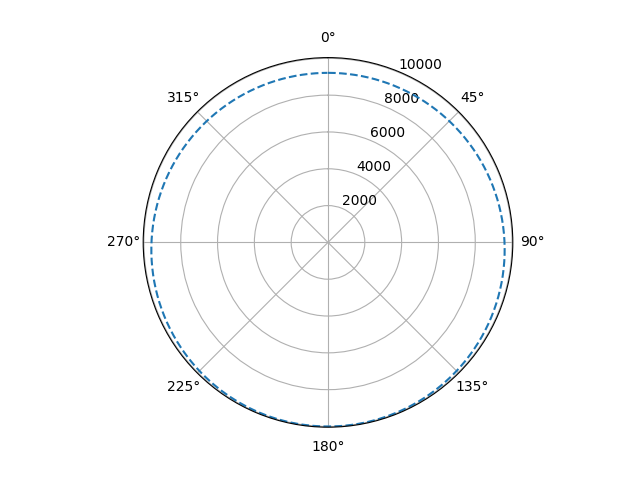
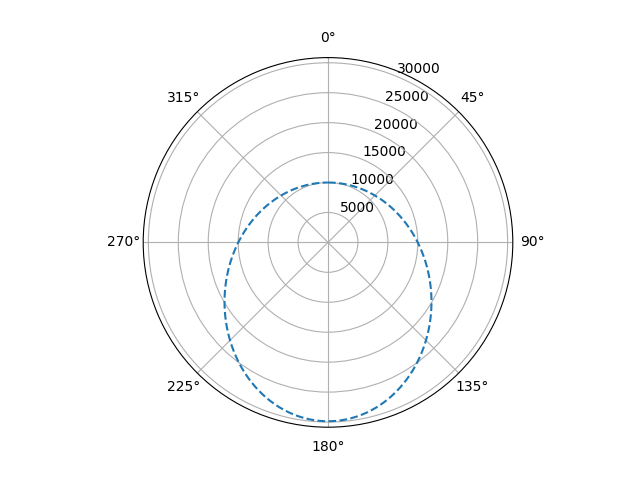
dynamic reset the range

diff --git a/.ipynb_checkpoints/model-checkpoint.py b/.ipynb_checkpoints/model-checkpoint.py
@@ -182,7 +182,7 @@ class Model():
             print(f"Merge Failed! Remaining {self.num} planets")
         return False
 
-    def _draw_figure(self, i, M, radii, num, basic_radii):
+    def _draw_figure(self, i, M, radii, num, basic_radii, figure_range):
         # draw a single frame
         fig = plt.figure()
         ax = fig.add_subplot(111, projection ='3d')
@@ -194,8 +194,8 @@ class Model():
         ax.set_xlabel("X")
         ax.set_ylabel("Y")
         ax.set_zlabel("Z")
-        ax.set_xlim(-30000, 30000)
-        ax.set_ylim(-30000, 30000) 
+        ax.set_xlim(figure_range["length"][0], figure_range["length"][1])
+        ax.set_ylim(figure_range["width"][0], figure_range["width"][1]) 
         ax.set_zlim(-30000, 30000)
         ax.set_title(f"Process:{int(100*(self.finished_chunks*self.step_num+i+1)/self.total_num)}%, Remaining:{num}")
         ax.scatter(M_x, M_y, M_z, s=scale, c='r', marker='o') 
@@ -204,12 +204,12 @@ class Model():
         self.video.write(cv2.imread("./image.png"))
         os.remove("./image.png")
         
-    def generate_video(self, record_steps, basic_radii, output_path):
+    def generate_video(self, record_steps, basic_radii, output_path, figure_range):
         # merge to a video
         with tqdm(total=int(self.step_num/record_steps)) as pbar:
             self.video = cv2.VideoWriter(output_path, cv2.VideoWriter_fourcc(*"mp4v"), FPS, SIZE) 
             for i in range(0, self.step_num, record_steps):
-                self._draw_figure(i, self.result_list[i], self.radii_list[i], self.num_list[i], basic_radii)
+                self._draw_figure(i, self.result_list[i], self.radii_list[i], self.num_list[i], basic_radii, figure_range)
                 pbar.update(1)
             self.video.release()
             cv2.destroyAllWindows()
@@ -244,7 +244,6 @@ if __name__ == "__main__":
     total_num = num_chunks * step_num
     M = init_state.init_M_state().to(device)
     radii = init_state.init_radii_state(basic_radii).to(device)
-
     
     tmp_max = init_state._get_max_v(sun_mass)
     tmp_min = (1/math.sqrt(2))*tmp_max
@@ -258,8 +257,14 @@ if __name__ == "__main__":
     if not os.path.exists("./result"):
         os.mkdir("./result")
 
+    fig_config = config["figure_config"]
     print("Orbit figure saved.")
     init_state.draw_orbit(sun_mass, "./result/orbit.png")
+    margin_bias = fig_config["margin_bias"]
+    max_figure_range = torch.quantile(init_state.get_figure_range(M, sun_mass), fig_config["range_quantile"]) + margin_bias
+    min_figure_range = init_state.pos_norm + margin_bias
+    width = (max_figure_range + min_figure_range)/2
+    figure_range = {"length":[-max_figure_range, min_figure_range], "width":[-width, width]}
 
     # Run Model in chunks
     model = Model(M, rho, radii, sun_mass, beta, time, step_num, total_num)
@@ -268,7 +273,7 @@ if __name__ == "__main__":
         if model.evolve():
             break
         print(f"----------Generating video ... Chunk ({i+1}/{num_chunks})----------")
-        model.generate_video(40, basic_radii, f"./tmp/image-{i}.mp4")
+        model.generate_video(40, basic_radii, f"./tmp/image-{i}.mp4", figure_range)
         model._reset()
     print("Successfully predicted!")
 
@@ -288,4 +293,4 @@ if __name__ == "__main__":
         final_clip = concatenate_videoclips(L)
         final_clip.write_videofile("./result/final.mp4", fps=FPS, remove_temp=False)
     else:
-        print("----------WARNING!!! No Video Found!----------")
+        print("----------WARNING!!! No Videos Found!----------")

diff --git a/model.py b/model.py
@@ -182,7 +182,7 @@ class Model():
             print(f"Merge Failed! Remaining {self.num} planets")
         return False
 
-    def _draw_figure(self, i, M, radii, num, basic_radii):
+    def _draw_figure(self, i, M, radii, num, basic_radii, figure_range):
         # draw a single frame
         fig = plt.figure()
         ax = fig.add_subplot(111, projection ='3d')
@@ -194,8 +194,8 @@ class Model():
         ax.set_xlabel("X")
         ax.set_ylabel("Y")
         ax.set_zlabel("Z")
-        ax.set_xlim(-30000, 30000)
-        ax.set_ylim(-30000, 30000) 
+        ax.set_xlim(figure_range["length"][0], figure_range["length"][1])
+        ax.set_ylim(figure_range["width"][0], figure_range["width"][1]) 
         ax.set_zlim(-30000, 30000)
         ax.set_title(f"Process:{int(100*(self.finished_chunks*self.step_num+i+1)/self.total_num)}%, Remaining:{num}")
         ax.scatter(M_x, M_y, M_z, s=scale, c='r', marker='o') 
@@ -204,12 +204,12 @@ class Model():
         self.video.write(cv2.imread("./image.png"))
         os.remove("./image.png")
         
-    def generate_video(self, record_steps, basic_radii, output_path):
+    def generate_video(self, record_steps, basic_radii, output_path, figure_range):
         # merge to a video
         with tqdm(total=int(self.step_num/record_steps)) as pbar:
             self.video = cv2.VideoWriter(output_path, cv2.VideoWriter_fourcc(*"mp4v"), FPS, SIZE) 
             for i in range(0, self.step_num, record_steps):
-                self._draw_figure(i, self.result_list[i], self.radii_list[i], self.num_list[i], basic_radii)
+                self._draw_figure(i, self.result_list[i], self.radii_list[i], self.num_list[i], basic_radii, figure_range)
                 pbar.update(1)
             self.video.release()
             cv2.destroyAllWindows()
@@ -244,7 +244,6 @@ if __name__ == "__main__":
     total_num = num_chunks * step_num
     M = init_state.init_M_state().to(device)
     radii = init_state.init_radii_state(basic_radii).to(device)
-
     
     tmp_max = init_state._get_max_v(sun_mass)
     tmp_min = (1/math.sqrt(2))*tmp_max
@@ -258,8 +257,14 @@ if __name__ == "__main__":
     if not os.path.exists("./result"):
         os.mkdir("./result")
 
+    fig_config = config["figure_config"]
     print("Orbit figure saved.")
     init_state.draw_orbit(sun_mass, "./result/orbit.png")
+    margin_bias = fig_config["margin_bias"]
+    max_figure_range = torch.quantile(init_state.get_figure_range(M, sun_mass), fig_config["range_quantile"]) + margin_bias
+    min_figure_range = init_state.pos_norm + margin_bias
+    width = (max_figure_range + min_figure_range)/2
+    figure_range = {"length":[-max_figure_range, min_figure_range], "width":[-width, width]}
 
     # Run Model in chunks
     model = Model(M, rho, radii, sun_mass, beta, time, step_num, total_num)
@@ -268,7 +273,7 @@ if __name__ == "__main__":
         if model.evolve():
             break
         print(f"----------Generating video ... Chunk ({i+1}/{num_chunks})----------")
-        model.generate_video(40, basic_radii, f"./tmp/image-{i}.mp4")
+        model.generate_video(40, basic_radii, f"./tmp/image-{i}.mp4", figure_range)
         model._reset()
     print("Successfully predicted!")
 
@@ -288,4 +293,4 @@ if __name__ == "__main__":
         final_clip = concatenate_videoclips(L)
         final_clip.write_videofile("./result/final.mp4", fps=FPS, remove_temp=False)
     else:
-        print("----------WARNING!!! No Video Found!----------")
+        print("----------WARNING!!! No Videos Found!----------")

diff --git a/.ipynb_checkpoints/init_utils-checkpoint.py b/.ipynb_checkpoints/init_utils-checkpoint.py
@@ -6,6 +6,8 @@ import numpy as np
 
 dtype = torch.float64
 G = torch.tensor(6.674e-11, dtype=dtype)
+seed = 42
+torch.manual_seed(seed)
 
 class Init_Utils():
     """
@@ -38,11 +40,16 @@ class Init_Utils():
         # set the radius of planet 
         return torch.full((self.num,),basic_radii).to(dtype=dtype).abs() # We first assume they have the same radius at beginning
 
-    def _ellipse_orbit(self, theta, v, phi, r, sun_mass):
-        h = v*math.sin(phi)*r
+    def _ellipse_orbit(self, theta, v, sin_phi, r, sun_mass):
+        h = v*sin_phi*r
         E = (1/2)*v*v - (G * sun_mass)/r
-        e = math.sqrt(1+(2*E*h*h)/(G*G*sun_mass*sun_mass))
-        return (h**2/(G*sun_mass))/(1+e*np.cos(theta))
+        e = torch.sqrt(1+(2*E*h*h)/(G*G*sun_mass*sun_mass))
+        return (h**2/(G*sun_mass))/(1+e*torch.cos(theta))
+
+    def _max_orbit_range(self, v, sin_phi, r, sun_mass):
+        total_num = v.size(0)
+        theta = torch.full((total_num,), math.pi)
+        return self._ellipse_orbit(theta, v, sin_phi, r, sun_mass)
     
     def _draw_polar(self, series: pd.Series, output_path):
         fig = plt.figure()
@@ -54,8 +61,17 @@ class Init_Utils():
         plt.close(fig)
 
     def draw_orbit(self, sun_mass, output_path):
-        config = {"v": self.v_norm, "phi": math.pi/2, "r": self.pos_norm, "sun_mass": sun_mass}
-        theta = np.arange(0, 2*math.pi, 0.01)
-        orbit = pd.Series(self._ellipse_orbit(theta, **config), theta)
+        config = {"v": self.v_norm, "sin_phi": math.sin(math.pi/2), "r": self.pos_norm, "sun_mass": sun_mass}
+        theta = torch.arange(0, 2*math.pi, 0.01)
+        orbit = pd.Series(self._ellipse_orbit(theta, **config).cpu().numpy(), theta.cpu().numpy())
         self._draw_polar(orbit, output_path)
+
+    def get_figure_range(self, M, sun_mass):
+        pos_state = M[:,:3]
+        v_state = M[:,3:]
+        r = pos_state.square().sum(-1).sqrt()
+        v = v_state.square().sum(-1).sqrt()
+        sin_phi = (pos_state * v_state).sum(-1)/(r*v + 1.0e-9) 
+        sin_phi = (1 - sin_phi.square()).sqrt()
+        return self._max_orbit_range(v, sin_phi, r, sun_mass)
         

diff --git a/init_utils.py b/init_utils.py
@@ -6,6 +6,8 @@ import numpy as np
 
 dtype = torch.float64
 G = torch.tensor(6.674e-11, dtype=dtype)
+seed = 42
+torch.manual_seed(seed)
 
 class Init_Utils():
     """
@@ -38,11 +40,16 @@ class Init_Utils():
         # set the radius of planet 
         return torch.full((self.num,),basic_radii).to(dtype=dtype).abs() # We first assume they have the same radius at beginning
 
-    def _ellipse_orbit(self, theta, v, phi, r, sun_mass):
-        h = v*math.sin(phi)*r
+    def _ellipse_orbit(self, theta, v, sin_phi, r, sun_mass):
+        h = v*sin_phi*r
         E = (1/2)*v*v - (G * sun_mass)/r
-        e = math.sqrt(1+(2*E*h*h)/(G*G*sun_mass*sun_mass))
-        return (h**2/(G*sun_mass))/(1+e*np.cos(theta))
+        e = torch.sqrt(1+(2*E*h*h)/(G*G*sun_mass*sun_mass))
+        return (h**2/(G*sun_mass))/(1+e*torch.cos(theta))
+
+    def _max_orbit_range(self, v, sin_phi, r, sun_mass):
+        total_num = v.size(0)
+        theta = torch.full((total_num,), math.pi)
+        return self._ellipse_orbit(theta, v, sin_phi, r, sun_mass)
     
     def _draw_polar(self, series: pd.Series, output_path):
         fig = plt.figure()
@@ -54,8 +61,17 @@ class Init_Utils():
         plt.close(fig)
 
     def draw_orbit(self, sun_mass, output_path):
-        config = {"v": self.v_norm, "phi": math.pi/2, "r": self.pos_norm, "sun_mass": sun_mass}
-        theta = np.arange(0, 2*math.pi, 0.01)
-        orbit = pd.Series(self._ellipse_orbit(theta, **config), theta)
+        config = {"v": self.v_norm, "sin_phi": math.sin(math.pi/2), "r": self.pos_norm, "sun_mass": sun_mass}
+        theta = torch.arange(0, 2*math.pi, 0.01)
+        orbit = pd.Series(self._ellipse_orbit(theta, **config).cpu().numpy(), theta.cpu().numpy())
         self._draw_polar(orbit, output_path)
+
+    def get_figure_range(self, M, sun_mass):
+        pos_state = M[:,:3]
+        v_state = M[:,3:]
+        r = pos_state.square().sum(-1).sqrt()
+        v = v_state.square().sum(-1).sqrt()
+        sin_phi = (pos_state * v_state).sum(-1)/(r*v + 1.0e-9) 
+        sin_phi = (1 - sin_phi.square()).sqrt()
+        return self._max_orbit_range(v, sin_phi, r, sun_mass)
         
